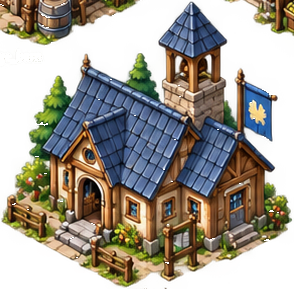
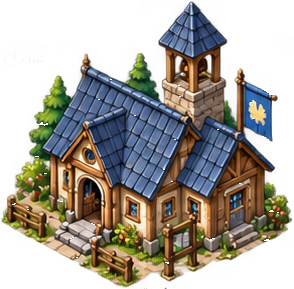
fix: remove neighboring atlas fragments from five existing sprites

Changed region(s): [[0.0, 0.0, 0.4898, 0.1557], [0.7653, 0.0, 1.0, 0.1246]]

diff --git a/tests/art_assets.js b/tests/art_assets.js
@@ -50,3 +50,16 @@ barn.state = 'site'; G.drawBuilding(ctx, barn, 0);
 assert.deepStrictEqual(placed.pop(), { name: 'site_3x3', x: 0, y: 416, width: 192 });
 G.sprDraw = drawSprite;
 console.log('Cleaned storage/site retain original real drawBuilding widths and bottom-center anchors.');
+
+// Atlas cleanup changes alpha only, so production destination rectangles remain exact.
+for (const [name, width, height] of [['school',294,289],['boarding',774,464],['mine',683,555]]) {
+  const im = G.SPR.get(name); im.width=width; im.height=height;
+  const def = G.BDEF[name], b = {type:name,state:'ok',x:10,y:10,w:def.w,h:def.h,id:999};
+  calls.length=0;
+  G.drawBuilding(ctx,b,0);
+  const draw=calls.find(c=>c[0]==='drawImage'&&c[1]===im);
+  assert(draw, name+' uses actual loaded sprite');
+  const [bx,by]=G.T2S(b.x+b.w,b.y+b.h), dw=(b.w+b.h)*32*G.BUILD_SPR_W[name], dh=dw*height/width;
+  assert.deepStrictEqual(draw.slice(2),[bx-dw/2,by-dh,dw,dh],name+' retains exact bottom-center anchor and uniform scale');
+}
+console.log('Cleaned school/boarding/mine production drawImage destination rectangles and uniform scale passed.');

diff --git a/tests/sprite-crop-cleanup.py b/tests/sprite-crop-cleanup.py
@@ -1,0 +1,27 @@
+"""Verify bounded atlas-neighbor removal, preserving original subject pixels/anchors."""
+from pathlib import Path
+import hashlib
+import json
+import numpy as np
+from PIL import Image
+from scipy import ndimage
+
+root = Path(__file__).resolve().parents[1]
+records = json.loads((root / 'docs/art-assets/crop-cleanup-20261021.json').read_text())
+assert len(records) == 5
+for record in records:
+    assert hashlib.sha256((root / record['sourceAtlas']).read_bytes()).hexdigest() == record['sourceAtlasSha256'], 'Atlas provenance changed: re-review the crop'
+    im = Image.open(root / record['file'])
+    assert im.mode == 'RGBA' and list(im.size) == record['size'], record['file']
+    a = np.array(im)
+    assert hashlib.sha256(a[:, :, :3].tobytes()).hexdigest() == record['rgbSha256'], 'Original RGB must remain byte-exact, including hidden pixels'
+    labels, _ = ndimage.label(a[:, :, 3] > 12)
+    counts = np.bincount(labels.ravel()); counts[0] = 0
+    body = labels == counts.argmax()
+    guard = ndimage.binary_dilation(body, structure=np.ones((3, 3)))
+    assert hashlib.sha256(a[guard].tobytes()).hexdigest() == record['guardRgbaSha256'], 'Original subject and one-pixel antialias guard must remain byte-exact'
+    zone = np.zeros(body.shape, dtype=bool)
+    for x0, y0, x1, y1 in record['clearRegions']:
+        zone[y0:y1, x0:x1] = True
+    assert not a[:, :, 3][zone & ~guard].any(), 'Neighbor fragments must be transparent'
+    print(record['file'], 'canvas, original RGB, original subject RGBA and clean neighbor zones passed')

diff --git a/tools/slice_assets.py b/tools/slice_assets.py
@@ -15,7 +15,12 @@ ROOT = os.path.dirname(os.path.dirname(os.path.abspath(__file__)))
 OUT = os.path.join(ROOT, 'assets')
 # Independently edited/reviewed PNGs are no longer derived from the old sheet.
 # Never silently put its known label/neighbor contamination back into these files.
-PRESERVED_EDITS = {'buildings/storage.png', 'buildings/site_3x3.png'}
+PRESERVED_EDITS = {
+    'buildings/storage.png', 'buildings/site_3x3.png',
+    # Atlas-neighbor cleanup keeps the established canvas and footpoint.
+    'buildings/school.png', 'buildings/boarding.png', 'buildings/mine.png',
+    'icons/tool_boarding.png', 'icons/tool_mine.png',
+}
 
 
 def load(name):

diff --git a/docs/art-assets/crop-cleanup-20261021.md b/docs/art-assets/crop-cleanup-20261021.md
@@ -1,0 +1,27 @@
+# Existing atlas crop cleanup, 2026-10-21
+
+Baseline: `d2df5900d85bc2d8bd646de6a7aaad7c4305c433`.
+
+Inspected all 159 shipped PNGs: 29 buildings, 44 icons, 35 props, 23 citizens, 21 tiles, 5 continuous terrain textures and 2 bridges. This was an offline pixel/contact-sheet inspection plus source/renderer review, not a live browser or production deployment test. New UI artwork is outside this change.
+
+## Confirmed neighboring sprites
+
+- `buildings/school.png`: above the school, the crop includes the storage barn's barrels/foundation and the gatherer hut's lower corner. Source: `art/sheet-1-main.png`, window (404,530)-(712,840).
+- `buildings/boarding.png`: lower-right pine fragment and tiny lower-center fragment belong to separate trees below the boarding house. Source: `art/sheet-2-missing.png`, window (662,0)-(1458,724).
+- `buildings/mine.png`: lower-left fragments belong to the separate mature tree to its left. Source: `art/sheet-2-missing.png`, window (1450,0)-(2171,600).
+- `icons/tool_boarding.png` and `icons/tool_mine.png` inherited those same tree fragments. `tool_school.png` is a separate book image and is unaffected.
+
+## Bounded correction
+
+Retain the original canvas, all RGB bytes, and the largest alpha>12 subject component plus its one-pixel 8-neighbor antialias guard. Only zero alpha outside that guard inside the explicitly reviewed neighbor rectangles in `crop-cleanup-20261021.json`. Do not crop, resize, redraw, recolor or move the subject. The manifest records baseline file hashes, atlas hashes, source windows, unchanged RGB/subject hashes, rectangles and exact changed-alpha counts (6989, 10719, 2372, 184, 53 respectively).
+
+The main component is used to protect the subject, not to indiscriminately delete all other components. The limited rectangles protect unrelated intentional details elsewhere. Existing building scale, smoke/effect anchors and bottom-center footpoints are unchanged. Protect all five reviewed files in `PRESERVED_EDITS` so a future whole-atlas export cannot replace the reviewed pixels.
+
+## Validation and remaining scope
+
+- `python3 tests/sprite-crop-cleanup.py`: original RGB and subject RGBA hashes, exact dimensions, atlas provenance, cleared neighbor regions.
+- `python3 tests/sprite-slicing.py`: component-selection and protected-export regressions.
+- `node tests/art_assets.js`: 159 loaded paths, sprite fallback, actual production drawBuilding/drawImage rectangles and uniform scale.
+- `python3 tests/art_assets.py`: existing alpha, size and resource checks.
+
+No additional high-confidence neighboring-sprite contamination was identified in the other 154 PNGs at contact-sheet review scale. Edge contact alone is not treated as a bug: bridge endpoints are intended to connect, and grave padding aligns its footpoint. Reviewed nine toolbar SVG crop rectangles against actual PNG dimensions; no size mismatch was found. Full-resolution rendered-world/animation review remains separate; this inspection does not claim every texture seam, scaling artifact or animation frame transition is certified.
